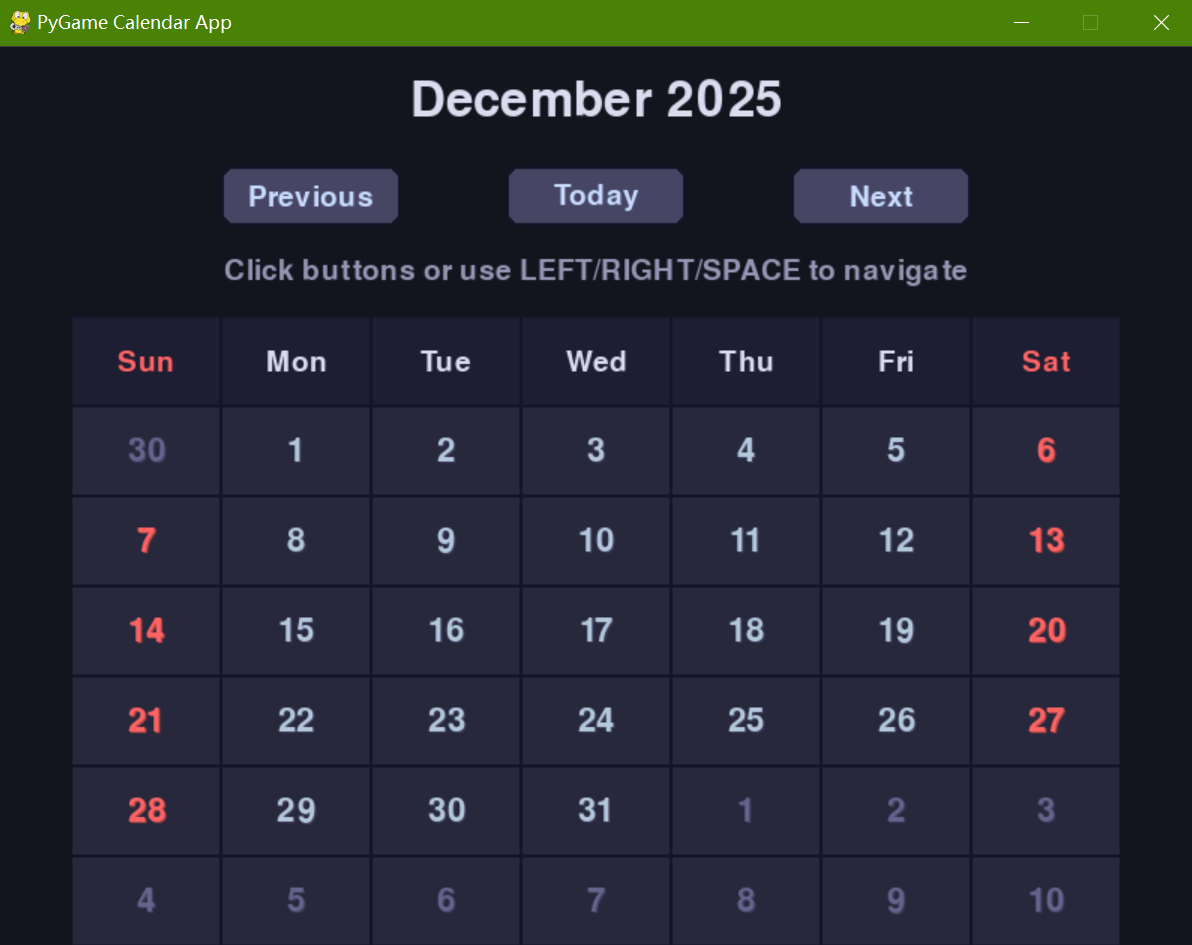
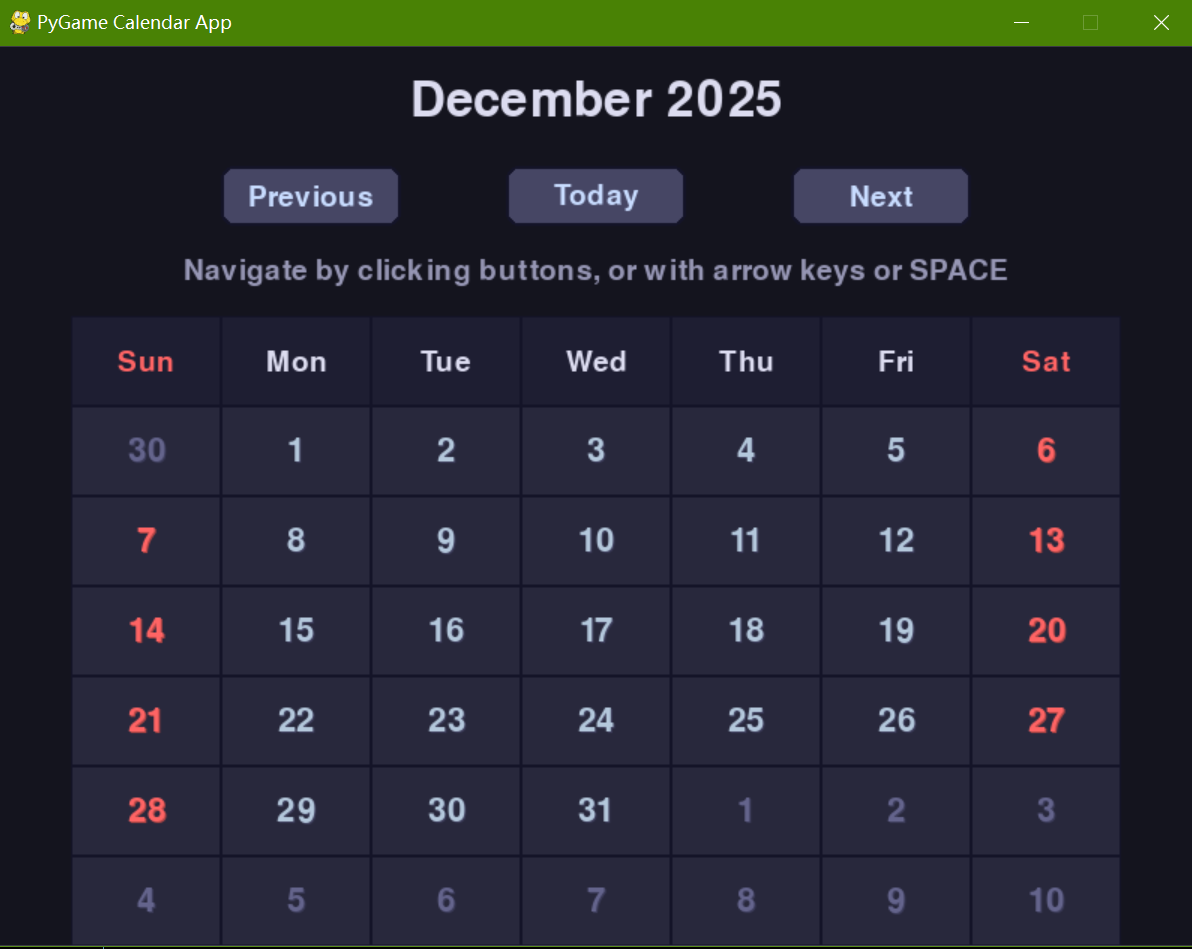
Improve the PyGame edition

diff --git a/calendar_app.py b/calendar_app.py
@@ -107,7 +107,7 @@ class CalendarApp:
         surface.blit(month_surf, (screen_width//2 -
                      month_surf.get_width()//2, 20))
         
-        hint_text = "Click buttons or use LEFT/RIGHT/SPACE to navigate"
+        hint_text = "Navigate by clicking buttons, or with arrow keys or SPACE"
         hint_surf = small_font.render(hint_text, True, (150, 150, 180))
         surface.blit(hint_surf, (screen_width//2 -
                      hint_surf.get_width()//2, 140))
@@ -222,12 +222,21 @@ class CalendarApp:
 
     def check_keydown(self, event):
         match event.key:
+            case pygame.K_UP:
+                self.current_date = self.current_date.replace(
+                    year=self.current_date.year+1)
+                self.clamp_year_num()
+            case pygame.K_DOWN:
+                self.current_date = self.current_date.replace(
+                    year=self.current_date.year-1)
+                self.clamp_year_num()
             case pygame.K_LEFT:
                 self.prev_month()
             case pygame.K_RIGHT:
                 self.next_month()
             case pygame.K_SPACE:
                 self.go_today()
+            
 
     def handle_events(self):
         mouse_pos = pygame.mouse.get_pos()

diff --git a/README.md b/README.md
@@ -13,6 +13,7 @@ The app's core functionality remains consistent across both platforms, offering 
 
 ### Key Features
 - **Month and Year Navigation**: Seamlessly move between different months and years using buttons or keyboard shortcuts.
+  - Note: In PyGame edition, use the "up" and "down" keys on keyboard to navigate through years.
 - **Today's Date Highlighting**: Easily identify the current date on the calendar (PyGame edition only).
 - **Year Range Validation**: Ensures the calendar stays within the range from 1970 to 9999.
 
